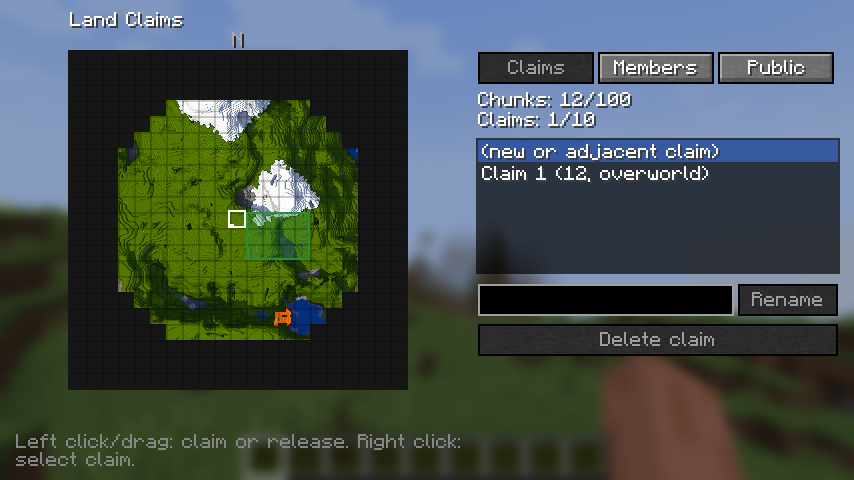
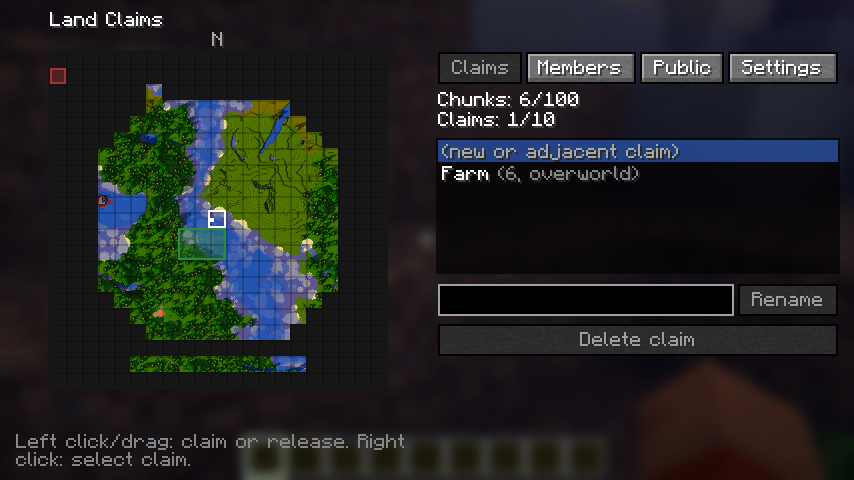
docs: one changelog per mod, README and screenshots for claims and clientmap 0.3.0
- <module>/CHANGELOG.md per mod; the root CHANGELOG.md links them and the
  release script reads the module's own changelog.
- README: versions and changelog links per mod, new screenshots of the
  claim settings, welcome notification, waypoint sharing, map menu and map
  settings.

diff --git a/.github/scripts/release_info.py b/.github/scripts/release_info.py
@@ -29,14 +29,14 @@ def main():
     if props.get("mod_version") != version:
         fail(f"{module}/gradle.properties has mod_version={props.get('mod_version')}, tag says {version}")
 
-    with open("CHANGELOG.md", encoding="utf-8") as f:
+    changelog = os.path.join(module, "CHANGELOG.md")
+    if not os.path.exists(changelog):
+        fail(f"{changelog} does not exist")
+    with open(changelog, encoding="utf-8") as f:
         text = f.read()
-    section = re.search(rf"^## {re.escape(module)}\n(.*?)(?=^## |\Z)", text, re.S | re.M)
-    if not section:
-        fail(f"CHANGELOG.md has no '## {module}' section")
-    entry = re.search(rf"^### \[{re.escape(version)}\][^\n]*\n(.*?)(?=^### |\Z)", section.group(1), re.S | re.M)
+    entry = re.search(rf"^## \[{re.escape(version)}\][^\n]*\n(.*?)(?=^## |\Z)", text, re.S | re.M)
     if not entry or not entry.group(1).strip():
-        fail(f"CHANGELOG.md has no entry for {module} {version}")
+        fail(f"{changelog} has no entry for {version}")
 
     with open(notes_path, "w", encoding="utf-8") as f:
         f.write(entry.group(1).strip() + "\n")

diff --git a/CHANGELOG.md b/CHANGELOG.md
@@ -1,147 +1,12 @@
 # Changelog
 
-Each mod is versioned on its own with [Semantic Versioning](https://semver.org/). Releases are tagged
-`<module>-v<version>`, for example `claims-v0.1.0`. The format follows
-[Keep a Changelog](https://keepachangelog.com/en/1.1.0/).
+Each mod is versioned on its own with [Semantic Versioning](https://semver.org/), has its own changelog and is
+released with a tag `<module>-v<version>` (for example `claims-v0.3.0`):
 
-## claims-api
-
-### [Unreleased]
-
-### [0.1.0] - 2026-11-01
-
-- First release: read-only API to query claims (`ClaimsApi`, `ClaimInfo`, `ChunkCoord`), change listener and
-  `ClaimsApiProvider`. Bundled (Jar-in-Jar) by the other mods.
-
-## render-core
-
-### [Unreleased]
-
-### [0.1.0] - 2026-11-01
-
-- New library: terrain shading in the style of the Diorama map, top-down (claims screen) and angled
-  (web map). Bundled by the mods that use it.
-
-## claims
-
-### [Unreleased]
-
-### [0.3.0] - 2026-11-03
-
-- **Claim settings tab** in the claims screen: a welcome and a farewell notification for whoever enters or leaves
-  the claim (title and message, with `{player}`, `{claim}`, `{owner}` and colour codes such as `&a` or `&#FF8800`;
-  without a title the claim's name is used) and a **visitor alarm** that tells the owner and/or the members when
-  someone who is neither comes in (chat message and bell, at most once per visitor every
-  `greetings.alarmCooldownSeconds`). Sent with vanilla packets, so players without the mod see them too; shown as
-  title, action bar or chat (`greetings.display`). Same from commands: `/claims settings ...`.
-- **Players' own limits**: operators can give a player more or fewer chunks, claims or members per claim than the
-  server limits with `/claims admin limits <player> <chunks|claims|members> <n|default>` (or `reset`). The
-  screen and `/claims list` show each player's own limits.
-- Storage format 2 (claim settings and players' limits; version 1 data loads as is). Network protocol 3: clients
-  and servers must both run 0.3.x to use the screen.
-
-### [0.2.0] - 2026-11-02
-
-- **Admin mode in the claims screen** (operators): a button turns it on and off (same as
-  `/claims admin bypass`). It lists every claim on the server, searchable by claim or owner name, and lets
-  operators rename, delete, edit members and public permissions, add or release chunks, teleport to a claim
-  (**Go**) and transfer it to another player. Other players' claims are drawn in orange, the panel gets an
-  orange frame and a "⚠ Editing X's claim" banner.
-- New `/claims admin transfer <player>`; `/claims help` lists the admin commands to operators.
-- The result of an action stays visible in the screen for a few seconds.
-- Network protocol version 2: clients and servers must both run 0.2.x to use the screen.
-
-### [0.1.0] - 2026-11-01
-
-- Chunk-based claims with per-player limits (chunks and claims), contiguity and optional spawn distance.
-- Friends with per-member permissions and templates (Visitor, Member, Trusted); public permissions and
-  claim settings (PvP, explosions, fire spread, mob griefing).
-- Claims screen: the real terrain around you in the style of the Diorama map (texture colours, biome tints,
-  sun and shadows, relief) under a chunk grid with claim colours and borders; drag selection, claim list,
-  members and public tabs (key **G** or `/claims menu`).
-- Commands for players without the client mod: `/claim`, `/unclaim`, `/claims ...`, `/claims admin ...`.
-- Protection for blocks, containers, items, entities, animals, farmland, explosions, fire, fluids, pistons
-  and mob griefing.
-- Messages translated on the server (English, Spanish), so vanilla clients read them too.
-- Versioned storage; game tests for protection and persistence.
-
-## webmap
-
-### [Unreleased]
-
-### [0.3.0] - 2026-11-02
-
-- Terrain that is loaded in the game but not saved yet (newly explored or edited) appears on the map within
-  seconds: loaded chunks are checked in small slices on the server thread and changed ones are rendered from a
-  snapshot (`render.liveCheckSeconds`, `render.liveBudgetMicros`). Before, only saved chunks were drawn
-  (autosave every five minutes).
-- Zoomed-out levels are refreshed every 15 s while level 0 is still rendering, instead of only when the queue
-  is empty, so zooming out no longer shows black while players explore.
-- Land claims and the public chat from Mochos Esenciales are shown too (claims by reflection, chat through an
-  optional mixin; no dependency). Its group and direct messages are never published.
-- Web page: "Spawn" button and marker; check boxes to show or hide claims, players and chat (remembered per
-  browser).
-- In-game settings screen for operators (mod list "Config" or `/webmap config`): page title, favicon and the
-  claims, players, online list and chat layers. Optional payloads; players without the mod still join.
-- `web.favicon` files must be inside the server folder.
-
-### [0.2.0] - 2026-11-02
-
-- Optional **chat** (read only, with joins and leaves) and **list of connected players** on the page
-  (`layers.showChat`, off by default; `layers.showOnlineList`, on by default). Clicking a player whose
-  position is shown centres the map on them.
-- Page **title** (`web.title`, default: the server MOTD), **favicon** (`web.favicon`: an http(s) URL or an
-  image file relative to the server folder; default `server-icon.png` or the mod's icon) and **language**
-  (`web.language`: AUTO, EN, ES). In Spanish the claims layer is called "Terrenos".
-- The `http`, `web` and `layers` settings apply without restarting the game server: when the config file is
-  saved, or with the new `/webmap reload`. A new port, bind address or thread count restarts only the web
-  server; `/webmap restart` restarts it by hand. Open pages reload themselves.
-- No more 404 errors in the browser console: tiles that do not exist yet answer a transparent pixel, and the
-  page reloads only the tiles the server re-rendered (new `/api/changes`) instead of the whole map every two
-  minutes, so new terrain shows up within seconds.
-
-### [0.1.0] - 2026-11-01
-
-- Web map served by the game server (default port 8123), with zoom-out levels and a dimension selector
-  (Leaflet 1.9.4 bundled).
-- Default style `DIORAMA`: the map is drawn at an angle like the Diorama map, from block textures, with
-  sun, shadows, sky occlusion and outlines. Vanilla textures come from the official client jar, downloaded
-  once from Mojang and checked against its SHA-1 (`render.downloadClientAssets`); modded blocks use the
-  textures in their own jars. `render.style = TOP_DOWN` gives a flat map with vanilla map colours instead.
-- Background rendering at minimum priority with a chunks-per-second cap; only changed areas are redrawn.
-- Claims painted on the terrain they cover (colour per owner, edge where the owner changes, name and owner
-  label) when Claims is installed; the mouse shows x, y, z and the claim. Optional player positions (off by
-  default).
-- `/webmap status|render|clearcache`; JSON endpoints `/api/info`, `/api/claims`, `/api/players`.
-
-## clientmap
-
-### [Unreleased]
-
-### [0.3.0] - 2026-11-03
-
-- **Share your own waypoints from Diorama's waypoint screen**: a "Share: Private / Public / Group" button under
-  "Show on maps". Renaming, moving, recolouring or deleting the waypoint in Diorama updates (or withdraws) it for
-  the others. Replaces "Add shared waypoint here" in the map menu and `/sharedwaypoint add|rename`;
-  `/sharedwaypoint list|remove` stay.
-- **Map settings** (map right-click menu "Map settings…", `/clientmap settings` or the mods list): show claims on
-  the map, show claims on the minimap, share my location and share my explored map, all on by default.
-  `/mapexplored share|keep` sets the last one without the client mod.
-- What a player explores is always kept in their own pool too, so turning sharing on, or joining a group, hands
-  over what they explored before. Several pools can be synced at once.
-- Leaving or being removed from a map group withdraws the waypoints shared with that group.
-- Map protocol 2 and storage format 2: server and clients must be updated together.
-
-### [0.2.0] - 2026-11-02
-
-- Support Diorama 0.7.0 (NeoForge 1.21.1), whose map right-click menu changed shape; Diorama 0.6.0 and
-  0.6.1 stay supported.
-- With Diorama 0.7.0's view of another dimension's map, "Add shared waypoint" adds it in the dimension
-  shown; claiming and releasing are offered only in the player's own dimension.
-
-### [0.1.0] - 2026-11-01
-
-- Integration with Diorama 0.6.0 (NeoForge 1.21.1): claims on the map, claim/release from the right-click
-  menu, shared explored map, shared waypoints and player positions with per-player privacy.
-- Sharing modes per server: disabled, global or by groups (`/mapgroup`).
-- Commands: `/sharedwaypoint`, `/maplocation`, client `/clientmap status|resync`.
+| Mod | Changelog |
+|---|---|
+| Diorama Addons: Claims API | [claims-api/CHANGELOG.md](claims-api/CHANGELOG.md) |
+| Diorama Addons: Render Core | [render-core/CHANGELOG.md](render-core/CHANGELOG.md) |
+| Diorama Addons: Claims | [claims/CHANGELOG.md](claims/CHANGELOG.md) |
+| Diorama Addons: Web Map | [webmap/CHANGELOG.md](webmap/CHANGELOG.md) |
+| Diorama Addons: Client Map | [clientmap/CHANGELOG.md](clientmap/CHANGELOG.md) |

diff --git a/README.md b/README.md
@@ -3,13 +3,13 @@
 Land claims, a web map and shared maps for Minecraft 1.21.1 on NeoForge. Four **independent** mods: each
 one builds its own jar and works alone, and they work together when installed side by side.
 
-| Mod | Mod ID | Install on | What it does |
-|---|---|---|---|
-| [Claims](#claims) | `dioaddons_claims` | Server (required), client (optional, for the screen) | Protect land chunk by chunk, add friends, set permissions |
-| [Web Map](#web-map) | `dioaddons_webmap` | Server only | Live world map in the browser, with claims |
-| [Client Map](#client-map-diorama) | `dioaddons_clientmap` | Server and clients with [Diorama](https://modrinth.com/mod/diorama-map) | Claims, shared explored map, shared waypoints and positions in Diorama |
-| Claims API | `dioaddons_claims_api` | Nothing to do: bundled inside the other jars | Small read-only API other mods can use |
-| Render Core | `dioaddons_render_core` | Nothing to do: bundled inside the jars that draw maps | Terrain shading in the Diorama style |
+| Mod | Version | Mod ID | Install on | What it does |
+|---|---|---|---|---|
+| [Claims](#claims) | 0.3.0 · [changelog](claims/CHANGELOG.md) | `dioaddons_claims` | Server (required), client (optional, for the screen) | Protect land chunk by chunk, add friends, set permissions, greet visitors |
+| [Web Map](#web-map) | 0.3.0 · [changelog](webmap/CHANGELOG.md) | `dioaddons_webmap` | Server only | Live world map in the browser, with claims |
+| [Client Map](#client-map-diorama) | 0.3.0 · [changelog](clientmap/CHANGELOG.md) | `dioaddons_clientmap` | Server and clients with [Diorama](https://modrinth.com/mod/diorama-map) | Claims, shared explored map, shared waypoints and positions in Diorama |
+| Claims API | 0.1.0 · [changelog](claims-api/CHANGELOG.md) | `dioaddons_claims_api` | Nothing to do: bundled inside the other jars | Small read-only API other mods can use |
+| Render Core | 0.1.0 · [changelog](render-core/CHANGELOG.md) | `dioaddons_render_core` | Nothing to do: bundled inside the jars that draw maps | Terrain shading in the Diorama style |
 
 Players **without any of these mods can join** a server that has them; everything can also be done with
 commands.
@@ -25,7 +25,7 @@ commands.
 
 ## Claims
 
-![Claims screen with the members tab](docs/images/claims-gui.png)
+![Claims screen: the terrain around you with your claims](docs/images/claims-gui.png)
 
 - The unit is the **chunk**. Chunks of a claim touch each other; each player has limits on chunks and
   claims (being a friend in someone else's claim does not count).
@@ -40,6 +40,11 @@ commands.
 - **Settings tab** per claim: a welcome and a farewell notification for whoever enters or leaves (title and
   message, with `{player}`, `{claim}`, `{owner}` and colours like `&a`), and a **visitor alarm** for the owner
   and/or the members. Players without the mod see the notifications too.
+- Operators can give one player their own chunk, claim or member limits (`/claims admin limits`).
+
+| | |
+|---|---|
+| ![Settings tab: welcome and farewell notifications and visitor alarm](docs/images/claims-settings.png) | ![Welcome notification when entering a claim](docs/images/claims-welcome.png) |
 
 | Command | |
 |---|---|
@@ -106,6 +111,11 @@ API: [docs/webmap-api.md](docs/webmap-api.md).
 - **Player positions** of your group on the map and radar.
 - **Map settings** (map right-click → *Map settings…*, `/clientmap settings` or the mods list): claims on the
   map, claims on the minimap, share my location, share my explored map.
+
+| | |
+|---|---|
+| ![Share button in Diorama's waypoint screen](docs/images/diorama-waypoint-share.png) | ![Map right-click menu: claim this chunk, map settings](docs/images/diorama-map-menu.png) |
+| ![Map settings](docs/images/diorama-map-settings.png) | |
 - The server decides, separately for the explored map and for locations: off, shared by everyone, or by
   groups of friends.
 
@@ -136,9 +146,10 @@ Jars are written to `<module>/build/libs/`. More in [CONTRIBUTING.md](CONTRIBUTI
 - [Claims permissions and commands](docs/claims-permissions.md)
 - [Web map HTTP API](docs/webmap-api.md)
 - [Diorama research and integration plan](docs/clientmap-research.md)
-- [Changelog](CHANGELOG.md)
+- Changelogs: [Claims](claims/CHANGELOG.md) · [Web Map](webmap/CHANGELOG.md) · [Client Map](clientmap/CHANGELOG.md) ·
+  [Claims API](claims-api/CHANGELOG.md) · [Render Core](render-core/CHANGELOG.md)
 
 ## License
 
-[MIT](LICENSE). Third-party notices (Leaflet) in [THIRD_PARTY.md](THIRD_PARTY.md). Diorama is a separate
+[MIT](LICENSE). Third-party notices (Diorama map style, Leaflet, Mochos Esenciales) in [THIRD_PARTY.md](THIRD_PARTY.md). Diorama is a separate
 project by its own authors and is not included.

diff --git a/webmap/CHANGELOG.md b/webmap/CHANGELOG.md
@@ -1,0 +1,51 @@
+# Changelog — Diorama Addons: Web Map
+
+All notable changes to `webmap`. Releases are tagged `webmap-v<version>`. The format follows
+[Keep a Changelog](https://keepachangelog.com/en/1.1.0/) and versions follow [Semantic Versioning](https://semver.org/).
+
+## [Unreleased]
+
+## [0.3.0] - 2026-11-02
+
+- Terrain that is loaded in the game but not saved yet (newly explored or edited) appears on the map within
+  seconds: loaded chunks are checked in small slices on the server thread and changed ones are rendered from a
+  snapshot (`render.liveCheckSeconds`, `render.liveBudgetMicros`). Before, only saved chunks were drawn
+  (autosave every five minutes).
+- Zoomed-out levels are refreshed every 15 s while level 0 is still rendering, instead of only when the queue
+  is empty, so zooming out no longer shows black while players explore.
+- Land claims and the public chat from Mochos Esenciales are shown too (claims by reflection, chat through an
+  optional mixin; no dependency). Its group and direct messages are never published.
+- Web page: "Spawn" button and marker; check boxes to show or hide claims, players and chat (remembered per
+  browser).
+- In-game settings screen for operators (mod list "Config" or `/webmap config`): page title, favicon and the
+  claims, players, online list and chat layers. Optional payloads; players without the mod still join.
+- `web.favicon` files must be inside the server folder.
+
+## [0.2.0] - 2026-11-02
+
+- Optional **chat** (read only, with joins and leaves) and **list of connected players** on the page
+  (`layers.showChat`, off by default; `layers.showOnlineList`, on by default). Clicking a player whose
+  position is shown centres the map on them.
+- Page **title** (`web.title`, default: the server MOTD), **favicon** (`web.favicon`: an http(s) URL or an
+  image file relative to the server folder; default `server-icon.png` or the mod's icon) and **language**
+  (`web.language`: AUTO, EN, ES). In Spanish the claims layer is called "Terrenos".
+- The `http`, `web` and `layers` settings apply without restarting the game server: when the config file is
+  saved, or with the new `/webmap reload`. A new port, bind address or thread count restarts only the web
+  server; `/webmap restart` restarts it by hand. Open pages reload themselves.
+- No more 404 errors in the browser console: tiles that do not exist yet answer a transparent pixel, and the
+  page reloads only the tiles the server re-rendered (new `/api/changes`) instead of the whole map every two
+  minutes, so new terrain shows up within seconds.
+
+## [0.1.0] - 2026-11-01
+
+- Web map served by the game server (default port 8123), with zoom-out levels and a dimension selector
+  (Leaflet 1.9.4 bundled).
+- Default style `DIORAMA`: the map is drawn at an angle like the Diorama map, from block textures, with
+  sun, shadows, sky occlusion and outlines. Vanilla textures come from the official client jar, downloaded
+  once from Mojang and checked against its SHA-1 (`render.downloadClientAssets`); modded blocks use the
+  textures in their own jars. `render.style = TOP_DOWN` gives a flat map with vanilla map colours instead.
+- Background rendering at minimum priority with a chunks-per-second cap; only changed areas are redrawn.
+- Claims painted on the terrain they cover (colour per owner, edge where the owner changes, name and owner
+  label) when Claims is installed; the mouse shows x, y, z and the claim. Optional player positions (off by
+  default).
+- `/webmap status|render|clearcache`; JSON endpoints `/api/info`, `/api/claims`, `/api/players`.

diff --git a/clientmap/CHANGELOG.md b/clientmap/CHANGELOG.md
@@ -1,0 +1,36 @@
+# Changelog — Diorama Addons: Client Map
+
+All notable changes to `clientmap`. Releases are tagged `clientmap-v<version>`. The format follows
+[Keep a Changelog](https://keepachangelog.com/en/1.1.0/) and versions follow [Semantic Versioning](https://semver.org/).
+
+## [Unreleased]
+
+## [0.3.0] - 2026-11-03
+
+- **Share your own waypoints from Diorama's waypoint screen**: a "Share: Private / Public / Group" button under
+  "Show on maps". Renaming, moving, recolouring or deleting the waypoint in Diorama updates (or withdraws) it for
+  the others. Replaces "Add shared waypoint here" in the map menu and `/sharedwaypoint add|rename`;
+  `/sharedwaypoint list|remove` stay.
+- On short screens (big GUI scale) the share button sits between Save and Cancel instead of pushing them off
+  the screen.
+- **Map settings** (map right-click menu "Map settings…", `/clientmap settings` or the mods list): show claims on
+  the map, show claims on the minimap, share my location and share my explored map, all on by default.
+  `/mapexplored share|keep` sets the last one without the client mod.
+- What a player explores is always kept in their own pool too, so turning sharing on, or joining a group, hands
+  over what they explored before. Several pools can be synced at once.
+- Leaving or being removed from a map group withdraws the waypoints shared with that group.
+- Map protocol 2 and storage format 2: server and clients must be updated together.
+
+## [0.2.0] - 2026-11-02
+
+- Support Diorama 0.7.0 (NeoForge 1.21.1), whose map right-click menu changed shape; Diorama 0.6.0 and
+  0.6.1 stay supported.
+- With Diorama 0.7.0's view of another dimension's map, "Add shared waypoint" adds it in the dimension
+  shown; claiming and releasing are offered only in the player's own dimension.
+
+## [0.1.0] - 2026-11-01
+
+- Integration with Diorama 0.6.0 (NeoForge 1.21.1): claims on the map, claim/release from the right-click
+  menu, shared explored map, shared waypoints and player positions with per-player privacy.
+- Sharing modes per server: disabled, global or by groups (`/mapgroup`).
+- Commands: `/sharedwaypoint`, `/maplocation`, client `/clientmap status|resync`.

diff --git a/docs/ARCHITECTURE.md b/docs/ARCHITECTURE.md
@@ -233,10 +233,10 @@ screen).
 
 35. **Versions and tags per mod.** Each module keeps `mod_version` in its own `gradle.properties`;
     releases are tagged `<module>-v<semver>` (`claims-v0.1.0`, `claims-api-v0.1.0`...). One
-    `CHANGELOG.md` with a section per module.
+    `CHANGELOG.md` per module (`<module>/CHANGELOG.md`; the root one only links them).
 36. **Release workflow** (`.github/workflows/release.yml`) runs on those tags:
     `.github/scripts/release_info.py` checks the tag format, that `mod_version` matches and that the
-    changelog has an entry, then the mod is built and tested and `gh release create` publishes its jar
+    module's changelog has an entry, then the mod is built and tested and `gh release create` publishes its jar
     with the changelog entry as notes. Only GitHub's own CLI is used, no third-party release action.
     Modrinth/CurseForge publishing is left for later.
 37. **claims-api is released as its own tag** for API consumers, even though players never install it

diff --git a/CONTRIBUTING.md b/CONTRIBUTING.md
@@ -46,11 +46,11 @@ vanilla client can still join a server with the changed mod.
 ## Changelog and versions
 
 Each mod has its own [SemVer](https://semver.org/) version in `<module>/gradle.properties`
-(`mod_version`). Add your change to `CHANGELOG.md` under `[Unreleased]` of every mod it touches.
+(`mod_version`). Add your change under `[Unreleased]` in the `CHANGELOG.md` of every mod it touches (`<module>/CHANGELOG.md`).
 
 ## Releasing (maintainers)
 
-1. Move the mod's `[Unreleased]` notes in `CHANGELOG.md` to a new `### [x.y.z] - YYYY-MM-DD` entry.
+1. Move the `[Unreleased]` notes in `<module>/CHANGELOG.md` to a new `## [x.y.z] - YYYY-MM-DD` entry.
 2. Set `mod_version=x.y.z` in `<module>/gradle.properties` and commit (`chore(<module>): release x.y.z`).
 3. Tag and push: `git tag -a <module>-vx.y.z -m "<module> x.y.z" && git push origin <module>-vx.y.z`.
 

diff --git a/claims-api/CHANGELOG.md b/claims-api/CHANGELOG.md
@@ -1,0 +1,11 @@
+# Changelog — Diorama Addons: Claims API
+
+All notable changes to `claims-api`. Releases are tagged `claims-api-v<version>`. The format follows
+[Keep a Changelog](https://keepachangelog.com/en/1.1.0/) and versions follow [Semantic Versioning](https://semver.org/).
+
+## [Unreleased]
+
+## [0.1.0] - 2026-11-01
+
+- First release: read-only API to query claims (`ClaimsApi`, `ClaimInfo`, `ChunkCoord`), change listener and
+  `ClaimsApiProvider`. Bundled (Jar-in-Jar) by the other mods.

diff --git a/render-core/CHANGELOG.md b/render-core/CHANGELOG.md
@@ -1,0 +1,11 @@
+# Changelog — Diorama Addons: Render Core
+
+All notable changes to `render-core`. Releases are tagged `render-core-v<version>`. The format follows
+[Keep a Changelog](https://keepachangelog.com/en/1.1.0/) and versions follow [Semantic Versioning](https://semver.org/).
+
+## [Unreleased]
+
+## [0.1.0] - 2026-11-01
+
+- New library: terrain shading in the style of the Diorama map, top-down (claims screen) and angled
+  (web map). Bundled by the mods that use it.

diff --git a/.github/pull_request_template.md b/.github/pull_request_template.md
@@ -11,6 +11,6 @@
 
 - [ ] `./gradlew build` passes (and `./gradlew :claims:runGameTestServer` for claims changes)
 - [ ] Tested in game (say how: `runServer`, `runClient`, vanilla client...)
-- [ ] `CHANGELOG.md` updated under `[Unreleased]` of each changed mod
+- [ ] `<module>/CHANGELOG.md` updated under `[Unreleased]` for each changed mod
 - [ ] Texts use translation keys, with `en_us` and `es_es`
 - [ ] Design decisions noted in `docs/ARCHITECTURE.md`
